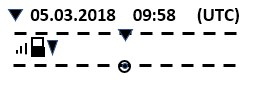
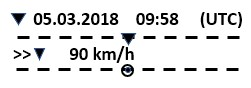
Update question text and swapped images

diff --git a/data.js b/data.js
@@ -6651,11 +6651,11 @@
             },
             {
                 "id": "c",
-                "text": "minimálne 11 za sebou nasledujúcich hodín"
+                "text": "minimálne 24 za sebou nasledujúcich hodín"
             },
             {
                 "id": "d",
-                "text": "minimálne 24 za sebou nasledujúcich hodín"
+                "text": "minimálne 11 za sebou nasledujúcich hodín"
             }
         ],
         "spravne": [
@@ -10539,7 +10539,7 @@
             },
             {
                 "id": "b",
-                "text": "je povinný počas ich nastupovania a vystupovania použiť osobitné zariadenie umožňujúce výstražnú funkciu smerových svietidiel"
+                "text": "je povinný počas ich vystupovania použiť osobitné zariadenie umožňujúce výstražnú funkciu smerových svietidiel"
             },
             {
                 "id": "c",
@@ -11687,7 +11687,7 @@
             },
             {
                 "id": "b",
-                "text": "jeden alebo viac hasiacich prístrojov, ktorých celková hmotnosť náplní je najmenej 12 kg"
+                "text": "jeden alebo viac hasiacich prístrojov, ktorých celková hmotnosť náplní je najmenej 10 kg"
             },
             {
                 "id": "c",
